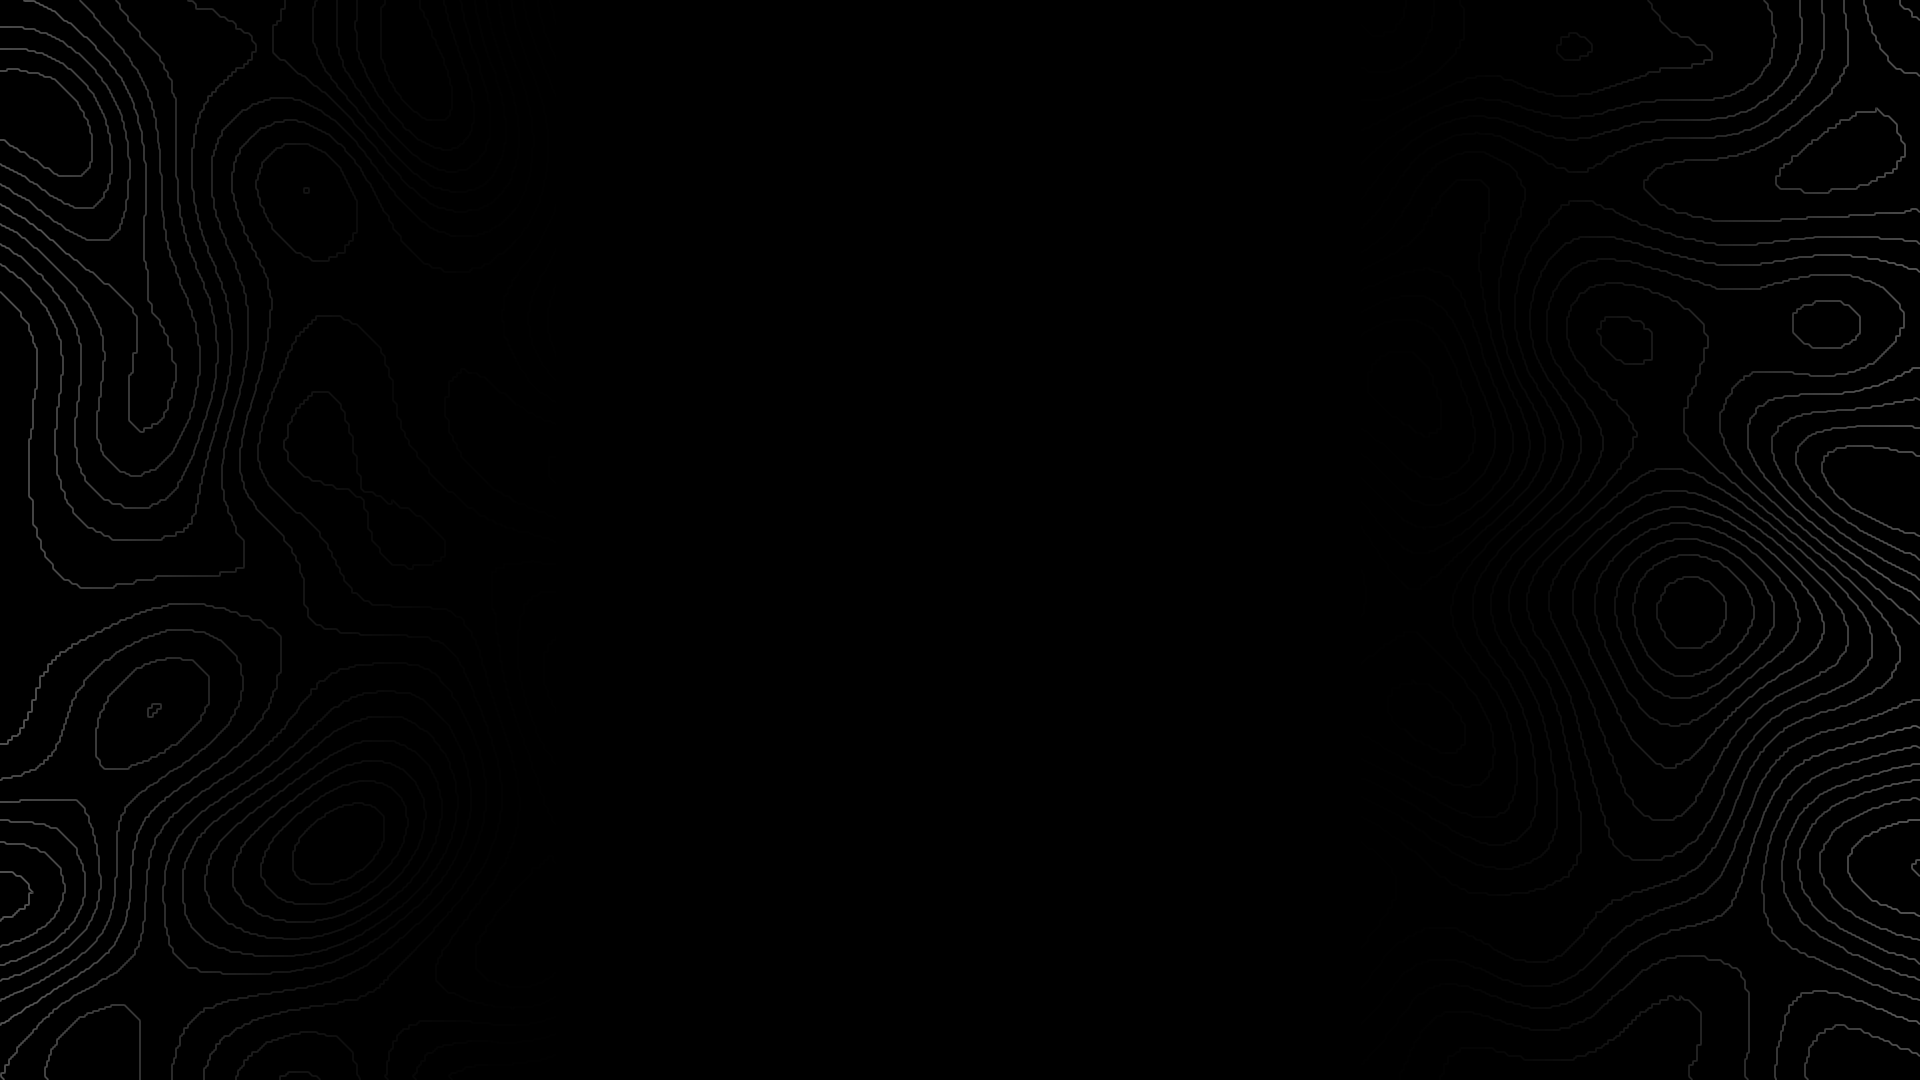
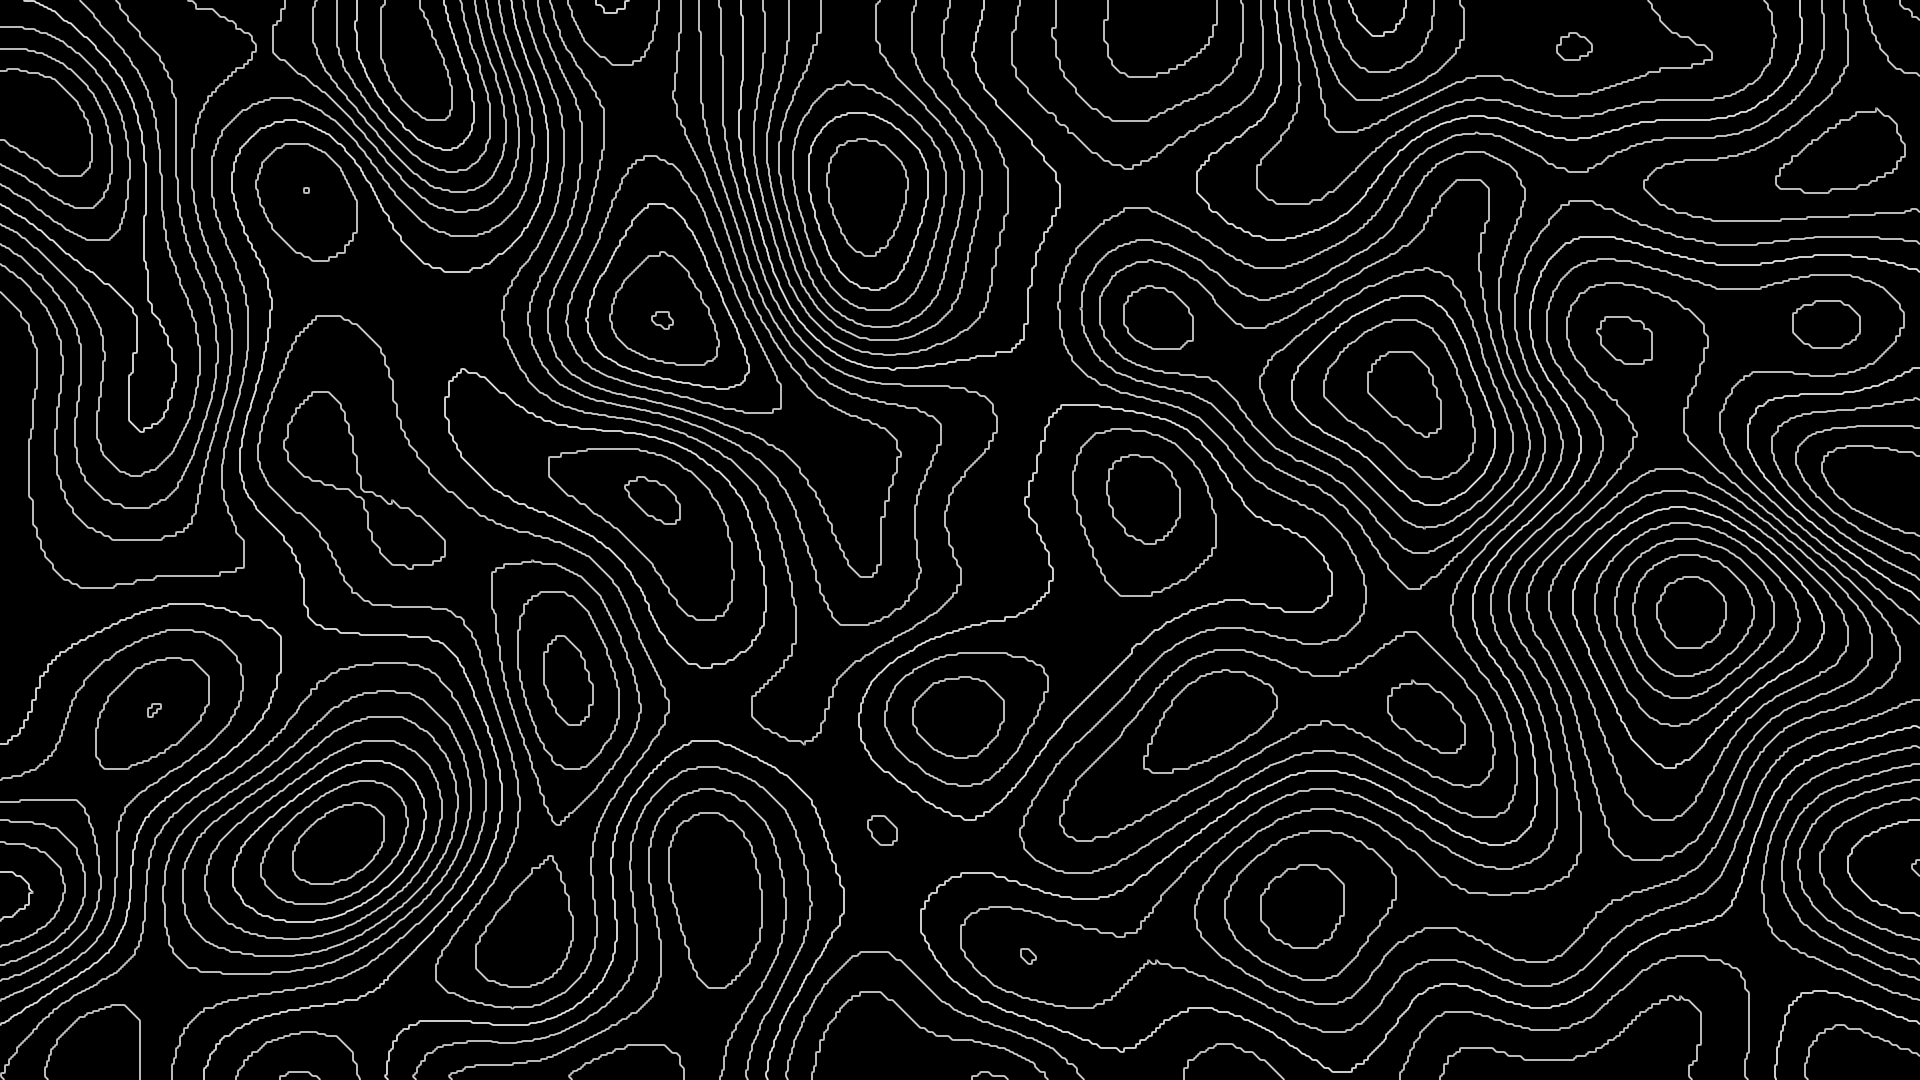
Probar css de la página

diff --git a/css/style.css b/css/style.css
@@ -15,22 +15,35 @@ body {
     margin: 0;
     padding: 0;
     font-family: "Poppins", sans-serif;
+    min-height: 100dvh;
+    background: url('./../img/bg-body.png') center/cover no-repeat fixed;
     position: relative;
+    overflow-x: hidden;
 }
 
 body::before {
     content: "";
     position: fixed;
     top: 0;
-    left: 0;
-    width: 100%;
-    height: 100%;
-    background: url('./../img/bg-body.png');
-    background-position: center;
-    background-repeat: no-repeat;
-    background-size: cover;
+    left: 50%;
+    transform: translateX(-50%);
+    width: 95%;
+    height: 300%;
+
+    background: radial-gradient(
+        ellipse at center,
+        rgba(0, 0, 0, 1) 0%,
+        rgba(0, 0, 0, 1) 40%,
+        rgba(0, 0, 0, 0.95) 70%,
+        rgba(0, 0, 0, 0.5) 100%
+    );
+
+    filter: blur(160px);
+
+    pointer-events: none;
     z-index: -1;
 }
+
 
 .container {
     display: flex;
@@ -131,7 +144,6 @@ main {
 
 .introduccion {
     width: 100%;
-    height: 100%;
     background: #F0F0F0;
 }
 
